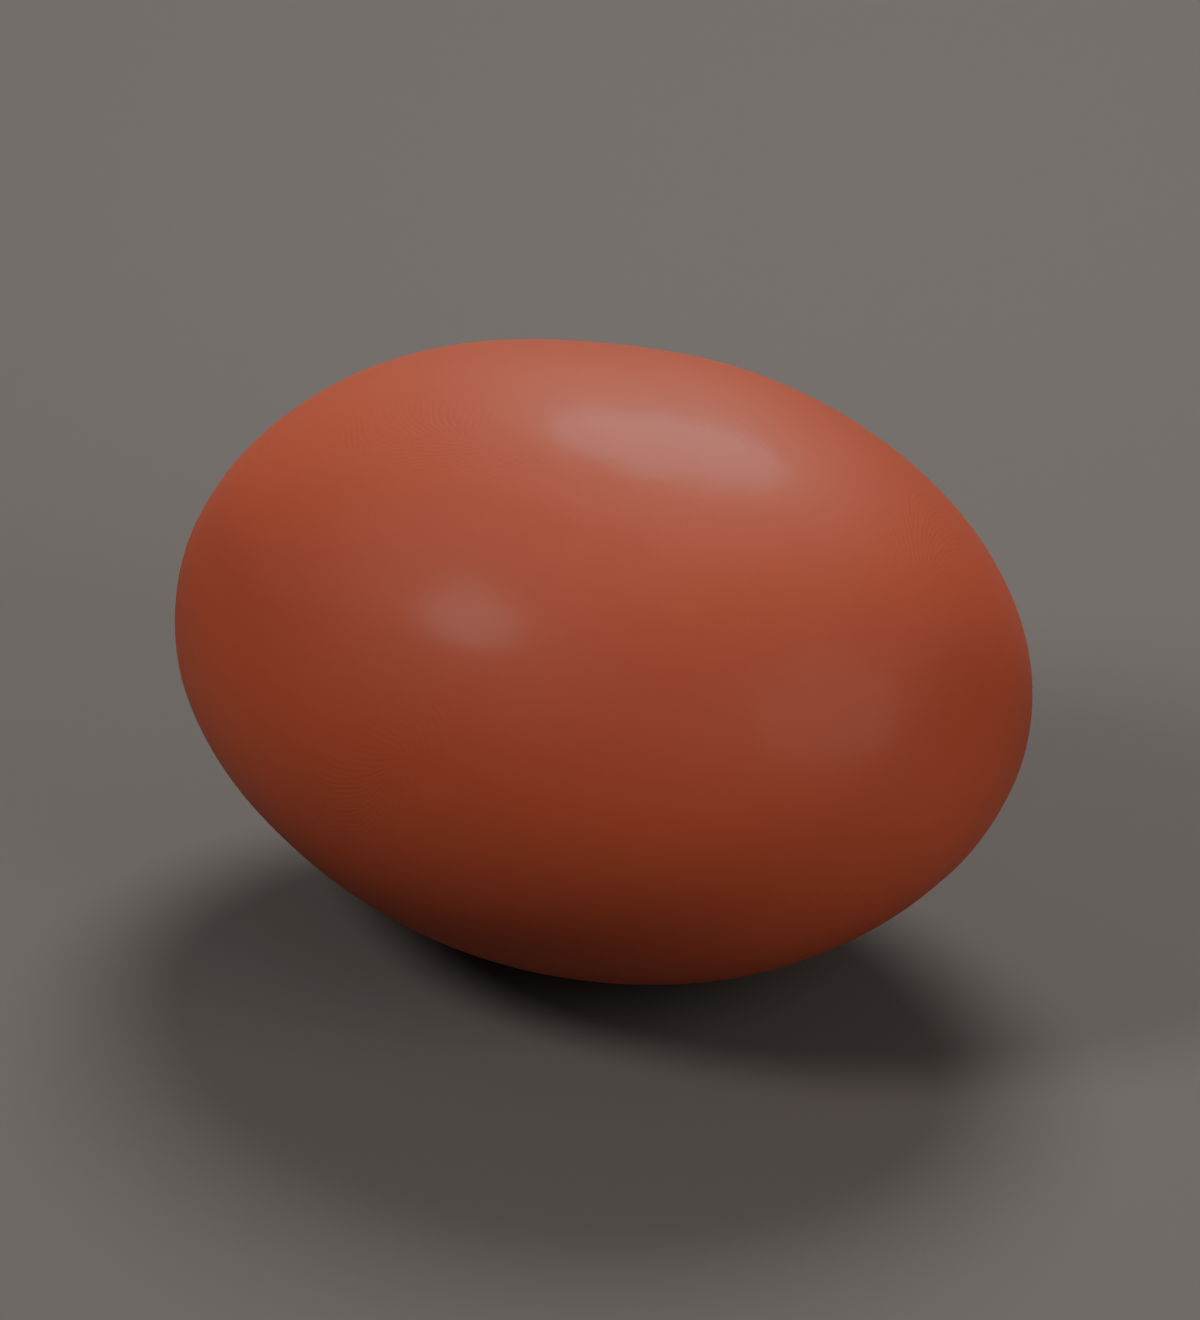
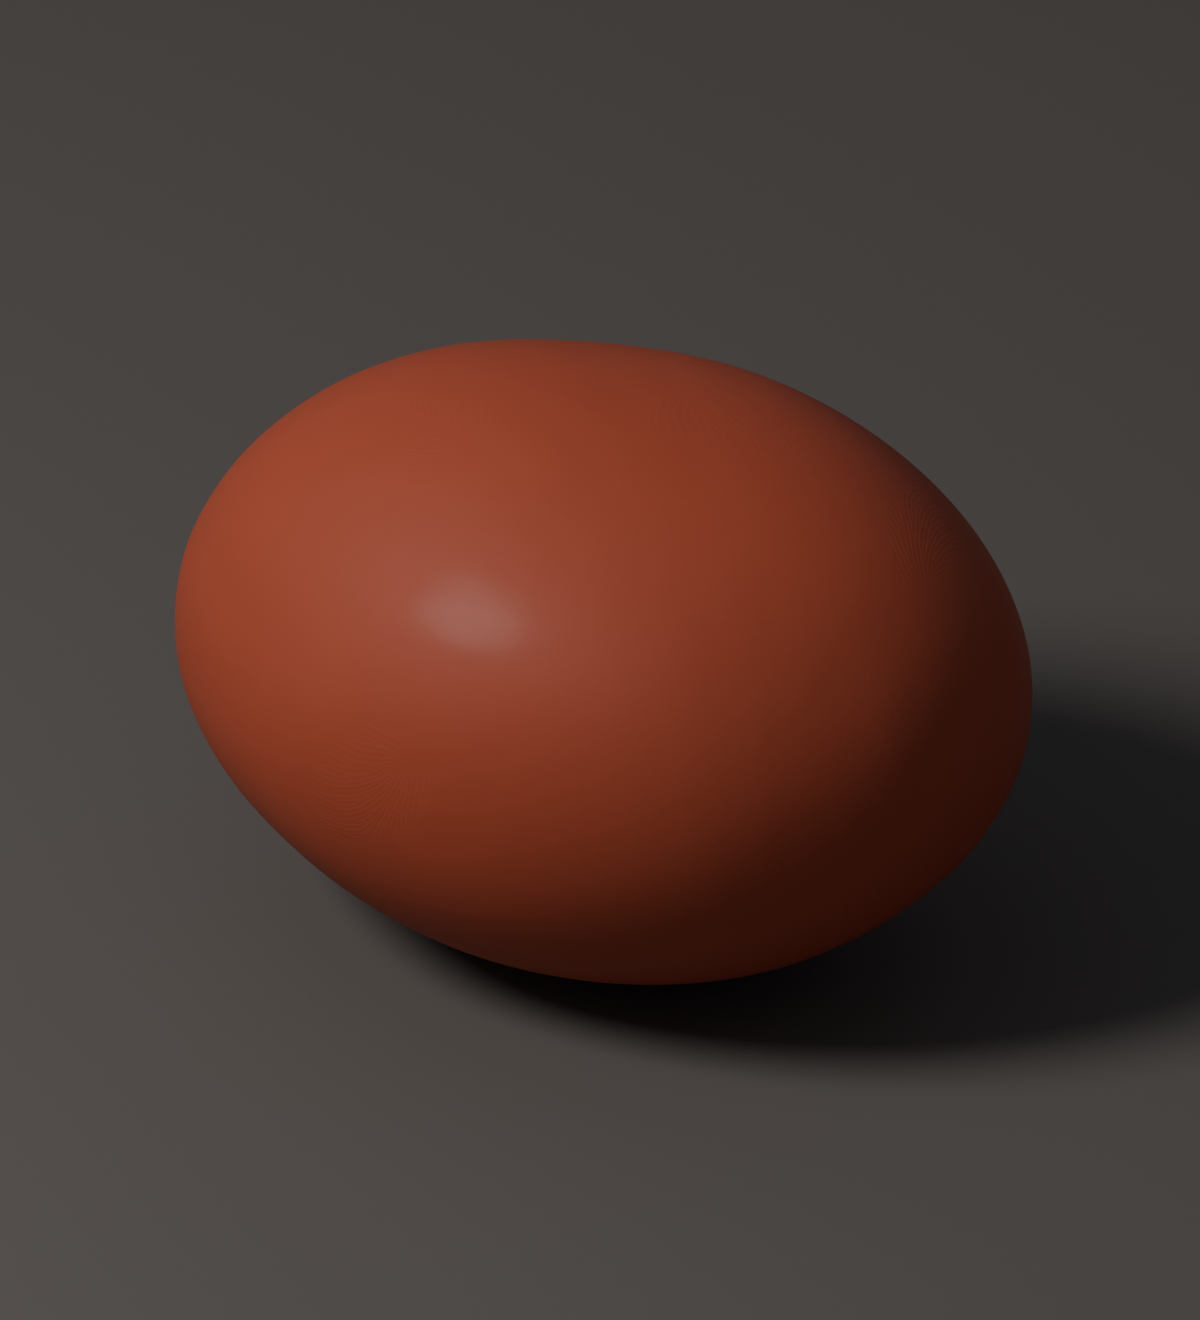
Simplify Compression introduction and use one soft studio shadow

diff --git a/index.html b/index.html
@@ -22,7 +22,7 @@
 <h2>Soft Dough: flowing surface grooves</h2><p>Soft Dough follows smooth paths around the actual clay surface. Each groove opens through its middle and closes to a pinched tip. The generator leaves clearance between paths and opens closed contours, reducing small rings, crossings and broad endpoint patches.</p><p>Choose a layout with Crack seed, Layout density and Crack detail. Crack coverage controls how much appears. Crack scale shortens or lengthens the grooves along those paths. Use the <strong>Crack width</strong> dropdown to choose <strong>Fine</strong>, <strong>Medium</strong>, <strong>Wide</strong> or <strong>Custom</strong>. New ordinary models start at Medium. The named widths are sized to the model and change only width. Custom retains the current width and reveals an editable <strong>Opening</strong> length. No seed refresh is needed.</p><p><strong>Under Custom, Opening measures the full opening at the widest middle.</strong> The tips are narrower. Blender displays a length using your scene units; when no unit system is selected, the field is marked <strong>BU</strong> for Blender units. For a uniformly scaled model, it includes the whole-model handle’s scale. If uneven scaling or shear makes the world width vary by direction, the label becomes <strong>Opening (local)</strong> and reports the model-space opening instead. Changing Layout density keeps the opening setting steady while the paths and spacing change. At high density, crowded paths may shorten or disappear to leave clearance.</p><p>Installing the new controls keeps your saved opening; values between the named widths appear as Custom. On older live models, editing Soft Dough settings adopts the surface-curve system automatically while preserving the current width. Your chosen colors, settings and editable parts remain; previous graph, material and helper data are kept as backups. After reshaping parts or editing the layout, allow the surface to finish updating.</p><h2>Choose quality for the view you need</h2><p><strong>Standard</strong> is the starting choice for finished renders: it adds samples around crack walls while keeping a bounded triangle count. <strong>Base mesh</strong> is a lighter working view with no added crack-wall geometry. It can show steps or pinches where a narrow groove crosses too few faces. Reducing displacement alone cannot add the missing faces.</p><p>Start with Standard and displacement around <strong>0.25–0.50</strong>. After editing, wait for refinement; use <strong>Full Quality Now</strong> if adaptive preview is enabled. Inspect the surface from the side and in your final lighting. More densely packed, narrower or deeper grooves need more samples. If a wall still looks faceted, try <strong>Close-up</strong>, raise the model’s <strong>Resolution</strong>, or reduce density or depth. A slightly wider opening also gives the wall more room to descend smoothly.</p><figure><img src="assets/cavity-close-up.png" alt="Close-up sampling on a deep glossy cavity. The included Crack Quality Study lets you compare all three quality levels." loading="lazy"><figcaption>Close-up sampling on a deep glossy cavity. The included Crack Quality Study lets you compare all three quality levels.</figcaption></figure><aside class="tip"><strong>Quality has a geometry cost.</strong> Standard stays within 4× the base triangle count; Close-up stays within 16×. Dense layouts share that budget across more walls, so the added detail is finite. Base mesh keeps the original count. Full Quality Now, saving and baking finish pending refinement. Judge the settled result before rendering.</aside><h2>Playful bite marks</h2><figure><img src="assets/detail-bite-marks.png" alt="Optional recessed tooth impressions on Bubble Gum." loading="lazy"><figcaption>Optional recessed tooth impressions on Bubble Gum.</figcaption></figure><p>Open <strong>Bite Marks</strong> and enable them. Size sets the arch size; Depth sets the indentation; Coverage controls how many stamps appear. Variation changes whole-arch pressure and size. Bite seed moves only the bites. These are stylized tooth impressions, not a removed mouthful. Tight corners and thin parts can show incomplete contacts; try another seed, less depth or more surface resolution.</p>
 <p>Cracks and bites become part of <strong>Bake Mesh Copy</strong>. Fingerprints, grain and color patterns remain shader effects; they do not become sculpted vertices automatically.</p><div class="next"><a href="#finishes">← Clay finishes</a><a href="#eyes">Add clay eyes →</a></div></article><article id="eyes" hidden><span class="eyebrow">EYE CONTROLS</span><h1>Create, place and customize clay eyes</h1><div class="eye-grid"><figure><img src="assets/eye-round.png" alt="Round" loading="lazy"><figcaption>Round</figcaption></figure><figure><img src="assets/eye-cat.png" alt="Cat" loading="lazy"><figcaption>Cat</figcaption></figure><figure><img src="assets/eye-heart.png" alt="Heart" loading="lazy"><figcaption>Heart</figcaption></figure><figure><img src="assets/eye-star.png" alt="Star" loading="lazy"><figcaption>Star</figcaption></figure><figure><img src="assets/eye-cross.png" alt="Cross" loading="lazy"><figcaption>Cross</figcaption></figure><figure><img src="assets/eye-diamond.png" alt="Diamond" loading="lazy"><figcaption>Diamond</figcaption></figure></div><h2>Add and place an eye</h2><ol><li>Open <strong>Clay Eyes</strong>, choose a pupil shape, and click <strong>Place Eye on Surface</strong>.</li><li>Click the clay where the eye belongs. To move an existing eye, select it and click <strong>Reposition Selected Eye</strong>. Cancel with <kbd>Esc</kbd>.</li><li>Adjust Eye diameter, White bulge and Sink into surface until it sits comfortably.</li><li>Add a second eye. Adjust pupil size, rotation and look direction to give the character an expression.</li></ol>
 <h2>Use clay presets on the pupil or white</h2><p>Select the eye. In Clay Eyes, set the finish for its <strong>white, iris and pupil</strong> independently. Try a waxy white with a glossy Bubble Gum heart, or a matte white and Raku Clay pupil. Colors are also independent. The iris is optional.</p><p>Each preset region exposes <strong>Roughness, Surface grain and Mineral flecks</strong> beneath its selector. Set Mineral flecks to 0 to remove speckles from just that region. <strong>More finish controls</strong> expands color mixing, impressions, fissures and optical controls. Eye cracks affect shading only. Each region remembers its adjustments for each preset, including after switching away and back or saving the file. Classic Eye retains its original shared classic controls.</p>
-<h2>Prefer dragging from the Asset Browser?</h2><p>Click <strong>Enable Eye Asset Library</strong>. Open an Asset Browser, choose the Meld Clay eye library, and drag in a preset. Use the placement tool afterward to seat and orient it on your character. Save Blender preferences if you want the added asset library available next time.</p><aside class="tip"><strong>Pick proportions before final eye placement.</strong> Eyes follow a surface attachment but do not bend around it. Large form changes can call for repositioning. Smaller eyes usually fit highly curved cheeks better.</aside><p>Eye parameters regenerate editable meshes. They are not blinking or animation controls. Changing parameters after manual vertex editing can replace those manual edits. A baked character body and its eyes are separate objects; include both when exporting.</p><div class="next"><a href="#details">← Prints, cracks & bites</a><a href="#compression">Compression →</a></div></article><article id="compression" hidden><span class="eyebrow">CLAY RELIEF</span><h1>Lumps and squeezes</h1><p class="lead">Turn the connected Dry Fractures pattern into broad clay lumps and squeezed valleys. Compression softens the places where several boundaries meet, keeps your material flowing through the recesses, and removes the secondary fissure layer.</p><div class="shape-gallery"><figure><a href="assets/compression-gentle.png"><img src="assets/compression-gentle.png" alt="Gentle: Shallow, broad squeezes." loading="lazy"></a><figcaption><strong>Gentle</strong><br>Shallow, broad squeezes.</figcaption></figure><figure><a href="assets/compression-clumped.png"><img src="assets/compression-clumped.png" alt="Clumped: Fuller lumps and deeper separation." loading="lazy"></a><figcaption><strong>Clumped</strong><br>Fuller lumps and deeper separation.</figcaption></figure><figure><a href="assets/compression-pressed.png"><img src="assets/compression-pressed.png" alt="Pressed: Stronger, wider impressions." loading="lazy"></a><figcaption><strong>Pressed</strong><br>Stronger, wider impressions.</figcaption></figure></div><p class="image-note">Actual Blender renders of the same original clay pebble, seed, finish, camera and lighting. Only Treatment changes. These are surface-relief recipes; the Shape style dropdown is a separate way to round and press the source parts.</p><h2>Start with a treatment</h2><ol><li>Select a live clay model. In <strong>Fingerprints &amp; Cracks</strong>, choose <strong>Crack style → Compression</strong>. First selection starts with Gentle and Standard quality; a saved Compression choice restores its own settings.</li><li>Compare Gentle, Clumped and Pressed. Orbit the surface, then choose a seed you like.</li><li>Adjust Compression strength, Lump size or Valley width. Leave Valley color on Inherit material first. Try Optional tint only if the valleys need a color accent.</li></ol><h2>Compression controls</h2><p>Choose <b>Crack style → Compression</b> in Fingerprints &amp; Cracks for broad, worked-clay relief. It builds on Dry Fractures with rounded intersections, continuous material color and no secondary fissures, including Raku glaze crazing. It does not change your source rounding, hand pressure or join rules. <a href="index.html#compression">See the illustrated treatments.</a></p><div class="table-wrap"><table><thead><tr><th scope="col">Control</th><th scope="col">What it does</th></tr></thead><tbody><tr><th scope="row">Treatment</th><td>Choose Gentle for shallow squeezes, Clumped for fuller lumps, or Pressed for stronger, wider impressions. Presets keep your seed, finish and Shape &amp; Melding settings. Manual adjustments show Custom; selecting Custom alone keeps the current shape.</td></tr><tr><th scope="row">Compression strength</th><td>How strongly the relief lifts and presses the clay, relative to model size. Zero removes its geometric effect. Start with a treatment before making it stronger.</td></tr><tr><th scope="row">Lump size</th><td>Resize the connected cells. Larger values give larger lumps and wider valleys at the same relative width. It works together with Layout density.</td></tr><tr><th scope="row">Valley width</th><td>Fine / Medium / Wide / Custom. Custom keeps the current width and exposes Valley width factor: 1.0 is Medium, 0.5 Fine and 2.0 Wide. This is relative to cell size, not a measurement in meters.</td></tr><tr><th scope="row">Compression seed + arrow</th><td>Rearrange the relief without changing source parts or thumbprints. Edits apply without randomizing the seed; the arrow simply chooses another layout.</td></tr><tr><th scope="row">Valley color</th><td>Inherit material continues the local clay colors, mixed-color patches and flecks through the valleys. Lighting creates their shadows. Optional tint adds a controllable color blend to recessed areas. Custom override materials supply their own shading.</td></tr><tr><th scope="row">Valley tint / Tint strength</th><td>Shown for Optional tint. Choose its color, then blend it gently into the valleys. Zero tint strength returns to the inherited color.</td></tr><tr><th scope="row">Surface quality</th><td>Base mesh is a light working view. Standard is the starting choice for finished renders. Close-up allows more local refinement. The same bounded geometry budgets used by the crack styles apply.</td></tr><tr><th scope="row">Layout density</th><td>Under More compression controls. Higher values generally pack more, smaller cells across the form and can move their boundaries. The seed stays the same.</td></tr><tr><th scope="row">Boundary irregularity</th><td>Under More compression controls. Bend the cell boundaries more or less; this does not add secondary fissures.</td></tr><tr><th scope="row">Compression coverage</th><td>Under More compression controls. Reduce the amount of the pattern applied; zero removes the Compression geometry effect.</td></tr></tbody></table></div><p>Switching among Soft Dough, Dry Fractures and Compression remembers each style’s settings. Clay Finish and Fingerprints &amp; Cracks Copy/Paste include the active Compression treatment and tint; the recipient keeps its inactive style histories. A copied arrangement follows the destination model’s shape and size.</p><p>Older saved Compression models adopt the rounded junctions on their next geometry edit. Change strength once and put it back if you want to rebuild without changing your seed. Previous graphs and materials are retained for recovery. Standard or Close-up can help sampling, but extreme density, depth and narrow valleys still need sufficient Resolution.</p><h2>Keep it soft and readable</h2><p>For rough valleys, wait for refinement, try Close-up, increase Resolution, lower density or strength, or use wider valleys. To inspect the geometry, use a MatCap with Object Color set to Object and cavity enabled. Return to Material Preview or Rendered to judge the finish.</p><p>Rounded junctions add no global subdivision stage, but filtering the relief takes additional computation. Existing pressed joins and deliberately sharp source features remain separate; Compression does not smooth the whole character or promise that every extreme setting fits every shape.</p><div class="next"><a href="#eyes">← Add clay eyes</a><a href="#movement">Move & randomize →</a></div></article><article id="movement" hidden><span class="eyebrow">SHAPE EXPLORATION</span><h1>Model movement, texture space and seeds</h1><figure><img src="assets/form-seed-4.png" alt="An earlier seeded-proportion study. The included Form Playground retains its authored Form variation settings." loading="lazy"><figcaption>An earlier seeded-proportion study. The included Form Playground retains its authored Form variation settings.</figcaption></figure><h2>Move the whole character</h2><p>Use <strong>Move Whole Model</strong> under Movement & Textures. Move, rotate or scale that handle to keep the body and source parts together. Move an individual cage in Edit Parts to reshape the character.</p>
+<h2>Prefer dragging from the Asset Browser?</h2><p>Click <strong>Enable Eye Asset Library</strong>. Open an Asset Browser, choose the Meld Clay eye library, and drag in a preset. Use the placement tool afterward to seat and orient it on your character. Save Blender preferences if you want the added asset library available next time.</p><aside class="tip"><strong>Pick proportions before final eye placement.</strong> Eyes follow a surface attachment but do not bend around it. Large form changes can call for repositioning. Smaller eyes usually fit highly curved cheeks better.</aside><p>Eye parameters regenerate editable meshes. They are not blinking or animation controls. Changing parameters after manual vertex editing can replace those manual edits. A baked character body and its eyes are separate objects; include both when exporting.</p><div class="next"><a href="#details">← Prints, cracks & bites</a><a href="#compression">Compression →</a></div></article><article id="compression" hidden><span class="eyebrow">CLAY RELIEF</span><h1>Lumps and squeezes</h1><p class="lead">Turn the connected Dry Fractures pattern into broad clay lumps and squeezed valleys. Compression softens the places where several boundaries meet.</p><div class="shape-gallery"><figure><a href="assets/compression-gentle.png"><img src="assets/compression-gentle.png" alt="Gentle: Shallow, broad squeezes." loading="lazy"></a><figcaption><strong>Gentle</strong><br>Shallow, broad squeezes.</figcaption></figure><figure><a href="assets/compression-clumped.png"><img src="assets/compression-clumped.png" alt="Clumped: Fuller lumps and deeper separation." loading="lazy"></a><figcaption><strong>Clumped</strong><br>Fuller lumps and deeper separation.</figcaption></figure><figure><a href="assets/compression-pressed.png"><img src="assets/compression-pressed.png" alt="Pressed: Stronger, wider impressions." loading="lazy"></a><figcaption><strong>Pressed</strong><br>Stronger, wider impressions.</figcaption></figure></div><p class="image-note">Actual Blender renders of the same original clay pebble, seed, finish, camera and lighting. Only Treatment changes. These are surface-relief recipes; the Shape style dropdown is a separate way to round and press the source parts.</p><h2>Start with a treatment</h2><ol><li>Select a live clay model. In <strong>Fingerprints &amp; Cracks</strong>, choose <strong>Crack style → Compression</strong>. First selection starts with Gentle and Standard quality; a saved Compression choice restores its own settings.</li><li>Compare Gentle, Clumped and Pressed. Orbit the surface, then choose a seed you like.</li><li>Adjust Compression strength, Lump size or Valley width. Leave Valley color on Inherit material first. Try Optional tint only if the valleys need a color accent.</li></ol><h2>Compression controls</h2><p>Choose <b>Crack style → Compression</b> in Fingerprints &amp; Cracks for broad, worked-clay relief. It builds on Dry Fractures with rounded intersections, continuous material color and no secondary fissures, including Raku glaze crazing. It does not change your source rounding, hand pressure or join rules. <a href="index.html#compression">See the illustrated treatments.</a></p><div class="table-wrap"><table><thead><tr><th scope="col">Control</th><th scope="col">What it does</th></tr></thead><tbody><tr><th scope="row">Treatment</th><td>Choose Gentle for shallow squeezes, Clumped for fuller lumps, or Pressed for stronger, wider impressions. Presets keep your seed, finish and Shape &amp; Melding settings. Manual adjustments show Custom; selecting Custom alone keeps the current shape.</td></tr><tr><th scope="row">Compression strength</th><td>How strongly the relief lifts and presses the clay, relative to model size. Zero removes its geometric effect. Start with a treatment before making it stronger.</td></tr><tr><th scope="row">Lump size</th><td>Resize the connected cells. Larger values give larger lumps and wider valleys at the same relative width. It works together with Layout density.</td></tr><tr><th scope="row">Valley width</th><td>Fine / Medium / Wide / Custom. Custom keeps the current width and exposes Valley width factor: 1.0 is Medium, 0.5 Fine and 2.0 Wide. This is relative to cell size, not a measurement in meters.</td></tr><tr><th scope="row">Compression seed + arrow</th><td>Rearrange the relief without changing source parts or thumbprints. Edits apply without randomizing the seed; the arrow simply chooses another layout.</td></tr><tr><th scope="row">Valley color</th><td>Inherit material continues the local clay colors, mixed-color patches and flecks through the valleys. Lighting creates their shadows. Optional tint adds a controllable color blend to recessed areas. Custom override materials supply their own shading.</td></tr><tr><th scope="row">Valley tint / Tint strength</th><td>Shown for Optional tint. Choose its color, then blend it gently into the valleys. Zero tint strength returns to the inherited color.</td></tr><tr><th scope="row">Surface quality</th><td>Base mesh is a light working view. Standard is the starting choice for finished renders. Close-up allows more local refinement. The same bounded geometry budgets used by the crack styles apply.</td></tr><tr><th scope="row">Layout density</th><td>Under More compression controls. Higher values generally pack more, smaller cells across the form and can move their boundaries. The seed stays the same.</td></tr><tr><th scope="row">Boundary irregularity</th><td>Under More compression controls. Bend the cell boundaries more or less; this does not add secondary fissures.</td></tr><tr><th scope="row">Compression coverage</th><td>Under More compression controls. Reduce the amount of the pattern applied; zero removes the Compression geometry effect.</td></tr></tbody></table></div><p>Switching among Soft Dough, Dry Fractures and Compression remembers each style’s settings. Clay Finish and Fingerprints &amp; Cracks Copy/Paste include the active Compression treatment and tint; the recipient keeps its inactive style histories. A copied arrangement follows the destination model’s shape and size.</p><p>Older saved Compression models adopt the rounded junctions on their next geometry edit. Change strength once and put it back if you want to rebuild without changing your seed. Previous graphs and materials are retained for recovery. Standard or Close-up can help sampling, but extreme density, depth and narrow valleys still need sufficient Resolution.</p><h2>Keep it soft and readable</h2><p>For rough valleys, wait for refinement, try Close-up, increase Resolution, lower density or strength, or use wider valleys. To inspect the geometry, use a MatCap with Object Color set to Object and cavity enabled. Return to Material Preview or Rendered to judge the finish.</p><p>Rounded junctions add no global subdivision stage, but filtering the relief takes additional computation. Existing pressed joins and deliberately sharp source features remain separate; Compression does not smooth the whole character or promise that every extreme setting fits every shape.</p><div class="next"><a href="#eyes">← Add clay eyes</a><a href="#movement">Move & randomize →</a></div></article><article id="movement" hidden><span class="eyebrow">SHAPE EXPLORATION</span><h1>Model movement, texture space and seeds</h1><figure><img src="assets/form-seed-4.png" alt="An earlier seeded-proportion study. The included Form Playground retains its authored Form variation settings." loading="lazy"><figcaption>An earlier seeded-proportion study. The included Form Playground retains its authored Form variation settings.</figcaption></figure><h2>Move the whole character</h2><p>Use <strong>Move Whole Model</strong> under Movement & Textures. Move, rotate or scale that handle to keep the body and source parts together. Move an individual cage in Edit Parts to reshape the character.</p>
 <h2>Sticky or World?</h2><div class="table-scroll"><table><tr><th>Texture mode</th><th>What you see</th></tr><tr><td>Sticky (default)</td><td>Patterns stay attached when the whole model moves, rotates or scales.</td></tr><tr><td>World</td><td>Patterns are sampled from the surrounding space. Moving the model changes the pattern on it.</td></tr></table></div><p>Sticky does not mean textures remain identical after every topology-changing source edit. It is designed for moving the whole clay model. World mode also affects procedural geometry details such as cracks.</p>
 <h2>Try another clay shape</h2><p>Use <strong>Shape &amp; Melding → Shape style</strong> to choose Palm rolled, Thumb pressed or Gently kneaded. The recipes use Source rounding, Knead / soften and broad Hand pressure. Change <strong>Random seed</strong> for another repeatable pressure arrangement. Choose your shape before final eye placement. <a href="#softening">Compare the three styles</a>.</p>
 <h2>Adjust the original part proportions</h2><p>Use <strong>Edit Parts</strong> to deliberately widen a body, enlarge a foot or move a limb. The earlier <strong>Form variation</strong> control remains under <strong>More shape controls</strong>: it applies seeded axis scaling to individual parts before melding. It is not an attachment-aware character-proportion tool. Zero restores the original proportions. High values can break shallow overlaps; reduce the amount or move the source parts closer. The included Form Playground preserves this earlier study.</p>
